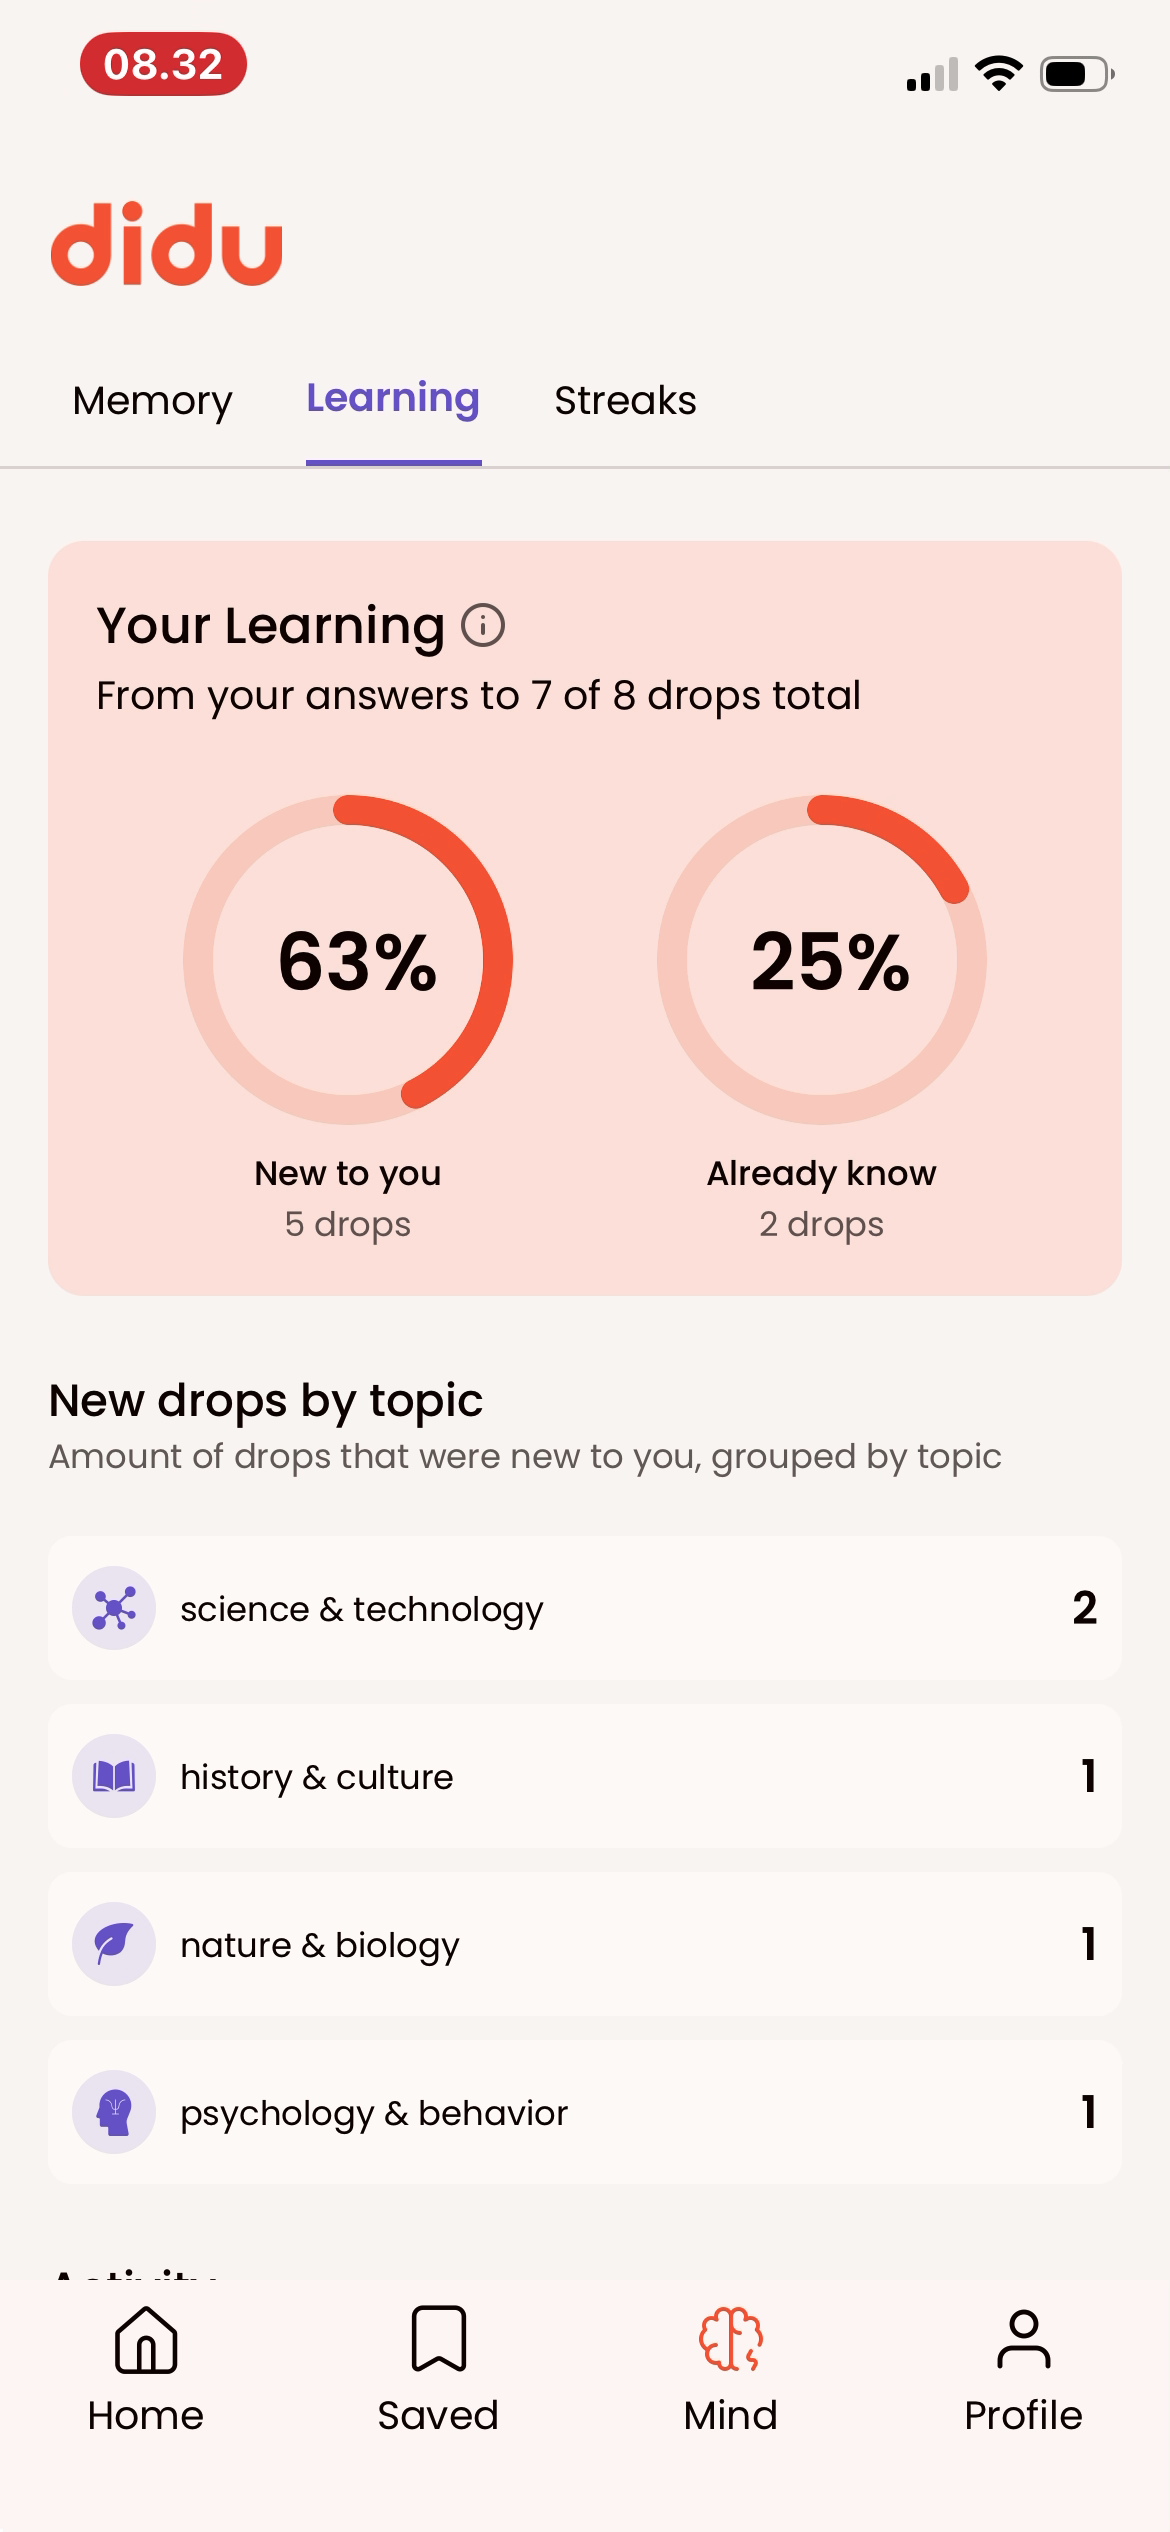
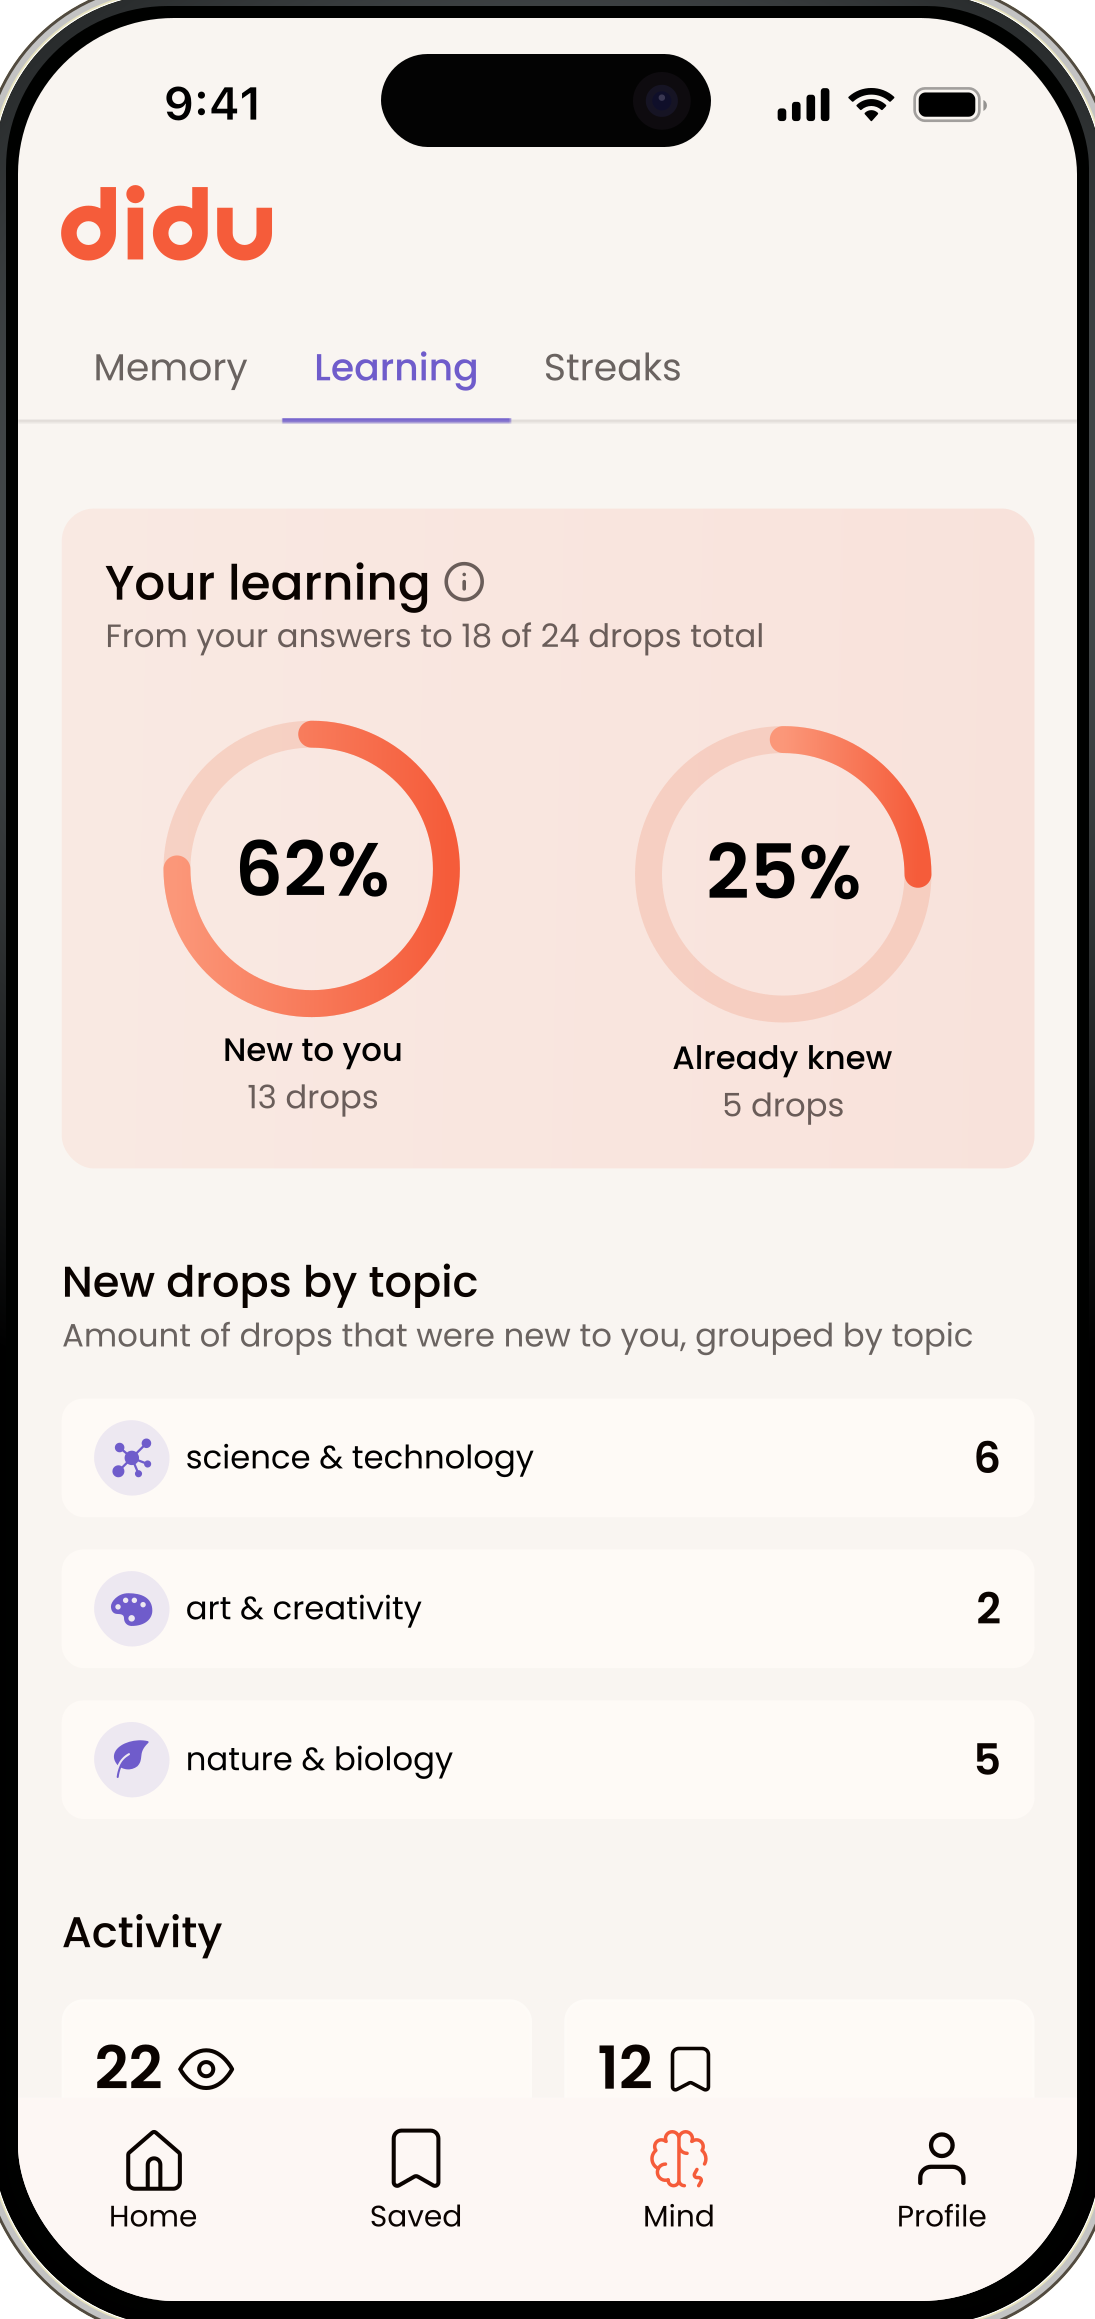
Replace screenshots with polished Figma renders

diff --git a/index.html b/index.html
@@ -497,6 +497,7 @@ nav .logo img { height: 30px; }
   display: block;
 }
 
+
 .mind-card h3 {
   font-family: var(--font-heading);
   font-size: 20px; font-weight: 700;
@@ -949,28 +950,35 @@ footer { padding: 40px 0 32px; background: var(--bg-alt); }
     <h2 class="section-title">Read. Remember. Grow.</h2>
     <p class="section-sub center">Didu doesn't just show you facts — it helps you keep them. Track your learning, test your memory, and build a daily streak.</p>
 
-    <div class="mind-grid reveal-stagger">
+    <div class="mind-grid reveal-stagger" id="mind-grid">
+
+      <!-- MEMORY BOOST -->
       <div class="mind-card">
         <div class="phone-frame">
-          <img src="img/screen-memory.png" alt="Memory Score showing 33% accuracy from completed quizzes" loading="lazy">
+          <img src="img/screen-memory.png" alt="Memory Score showing 72% accuracy from completed quizzes" loading="lazy">
         </div>
         <h3>Memory Boost</h3>
         <p>Twice a week, quizzes test what you've learned. Watch your accuracy grow as knowledge moves from short-term to long-term memory.</p>
       </div>
+
+      <!-- LEARNING INSIGHTS -->
       <div class="mind-card">
         <div class="phone-frame">
-          <img src="img/screen-learning.png" alt="Learning insights showing 63% new knowledge from daily drops" loading="lazy">
+          <img src="img/screen-learning.png" alt="Learning insights showing 62% new knowledge from daily drops" loading="lazy">
         </div>
         <h3>Learning Insights</h3>
         <p>See what's genuinely new vs. what you already knew. Didu maps your curiosity — which topics surprise you, and where you're already an expert.</p>
       </div>
+
+      <!-- DAILY STREAKS -->
       <div class="mind-card">
         <div class="phone-frame">
-          <img src="img/screen-streaks.png" alt="Daily streak calendar showing consistent reading habit" loading="lazy">
+          <img src="img/screen-streaks.png" alt="Daily streak calendar with 30 day streak" loading="lazy">
         </div>
         <h3>Daily Streaks</h3>
         <p>One drop a day. Your streak tracks the habit. No guilt, no pressure — just a quiet reminder that showing up for your mind matters.</p>
       </div>
+
     </div>
 
     <p class="mind-bottom"><strong>Under 2 minutes a day. That's it.</strong> Not another productivity tool. Not an endless course. Just one small act of curiosity that compounds over time.</p>
@@ -1186,6 +1194,7 @@ track.addEventListener('mousedown', e => { down = true; sx = e.pageX - track.off
 track.addEventListener('mouseleave', () => { down = false; track.style.cursor = 'grab'; });
 track.addEventListener('mouseup', () => { down = false; track.style.cursor = 'grab'; });
 track.addEventListener('mousemove', e => { if (!down) return; e.preventDefault(); track.scrollLeft = sl - (e.pageX - track.offsetLeft - sx) * 1.5; });
+
 </script>
 
 <!-- GDPR Cookie Banner -->
